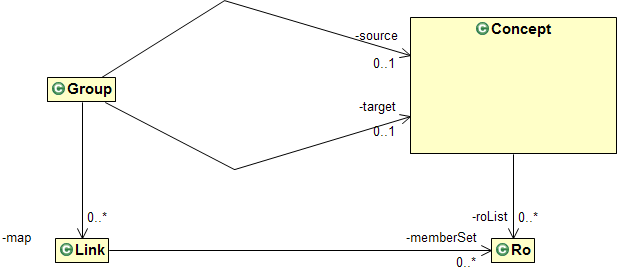
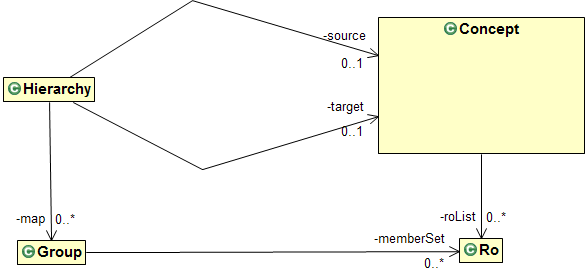
applying terminology consistently

Changed region(s): [[0.0, 0.0, 1.0, 1.0], [0.7347, 0.059, 0.8878, 0.1476], [0.1531, 0.1476, 0.2449, 0.2657]]

diff --git a/refplus-domain/src/main/java/org/refplus/domain/groups/Group.java b/refplus-domain/src/main/java/org/refplus/domain/groups/Group.java
@@ -3,16 +3,16 @@ package org.refplus.domain.groups;
 import java.util.HashSet;
 import java.util.Set;
 
+import org.refplus.domain.core.Ro;
+
 import lombok.AllArgsConstructor;
 import lombok.Data;
 import lombok.EqualsAndHashCode;
 import lombok.NoArgsConstructor;
 
-import org.refplus.domain.core.Ro;
-
 /**
  * 
- * A link contains the Ros being part of the same hierarchical element. Examples of links are: Countries of the
+ * A Group contains the Ros being part of the same hierarchical element. Examples of links are: Countries of the
  * continent Europe. Species of a particular family.
  * 
  * 
